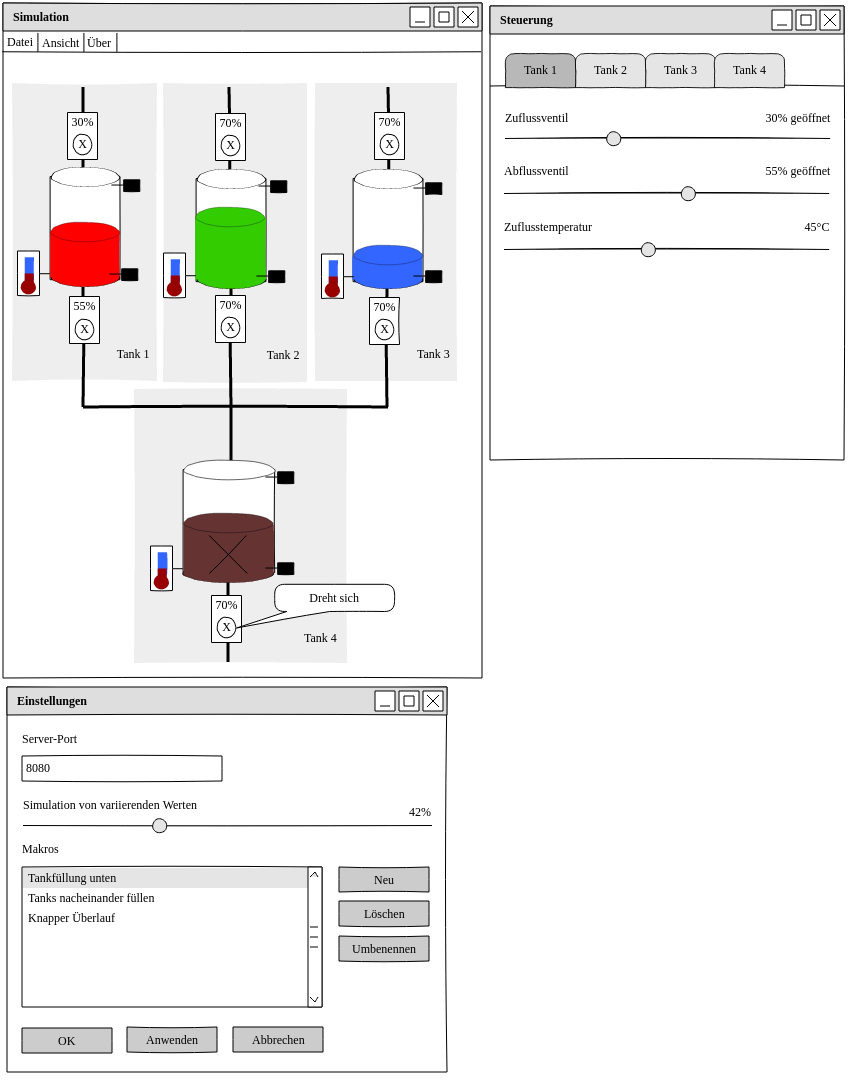
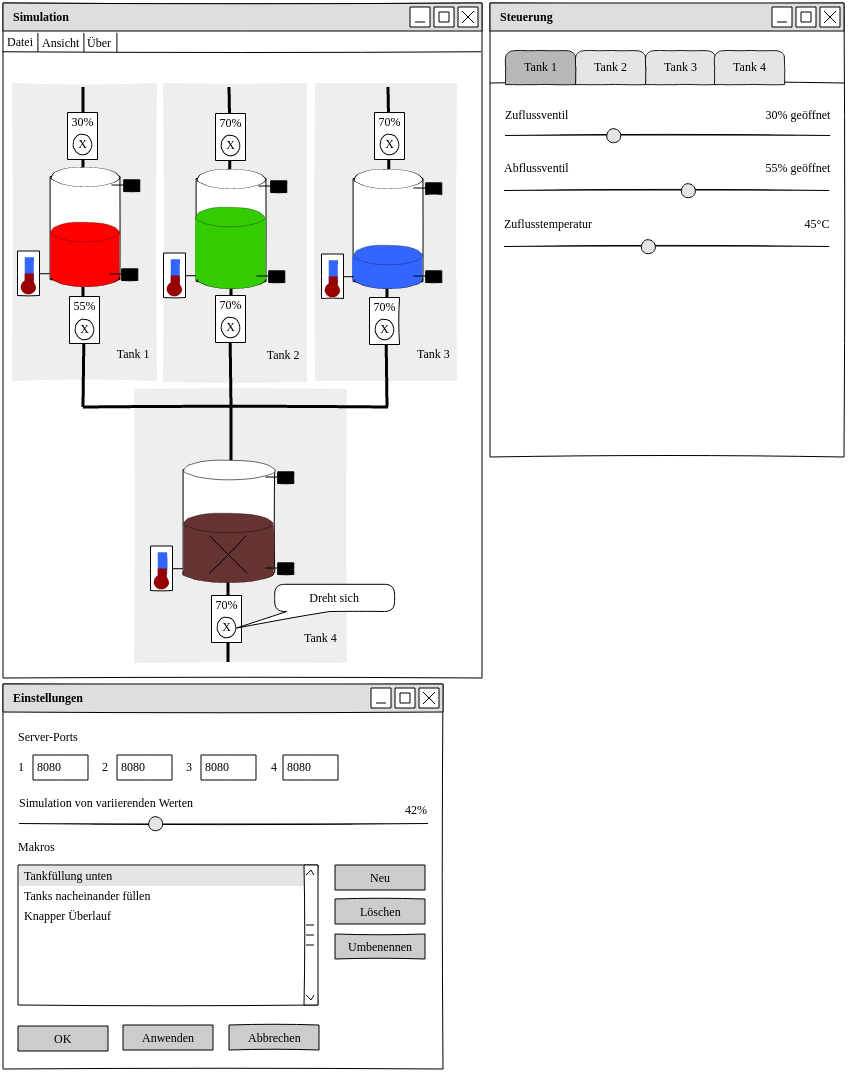
[doc] Multiple server ports

diff --git a/docs/Pflichtenheft.tex b/docs/Pflichtenheft.tex
@@ -132,7 +132,7 @@ mindestens 2GHz getaktet sein.
 \item[FA100] Die Zuflusstemperaturen der oberen Tanks können seperat eingestellt werden.
 \item[FA110] Die Füllstände der Tanks werden gemessen.
 \item[FA120] Die Fertigungssimulation kommuniziert über OPC UA in einem TCP/IP Netzwerk mit Überwachungskonsolen.
-\item[FA130] Der Port, \"uber den die Fertigungssimulation kommuniziert, kann eingestellt werden.
+\item[FA130] Die Ports, über welche die einzelnen OPC UA Server der Fertigungssimulation kommunizieren, können eingestellt werden.
 \end{enumerate}
 
 \subsubsection{GUI Darstellung}
@@ -246,7 +246,7 @@ Diese Parameter werden durch Schieberegler eingestellt.
  \item[D30] Die \gls{Uberwachungskonsole} speichert die zuletzt eingestellte Aktualisierungsfrequenz für die Sensorwerte.
  \item[D40] Die \gls{Uberwachungskonsole} speichert die zuletzt eingeschaltenen Alarme und alle Schwellenwerte.
  \item[D50] Die \gls{Uberwachungskonsole} speichert, welche Verläufe zuletzt angezeigt wurden.
- \item[D110] Die Fertigungssimulation speichert den zuletzt genutzten Port.
+ \item[D110] Die Fertigungssimulation speichert die zuletzt genutzten Ports der OPC UA Server.
  \item[D120] Die Fertigungssimulation speichert den zuletzt eingestellten \gls{Jitter}.
  \item[D130] Die Fertigungssimulation speichert \emph{eventuell (sofern implementiert)} aufgenommene \glspl{Makro}.
 \end{enumerate}
